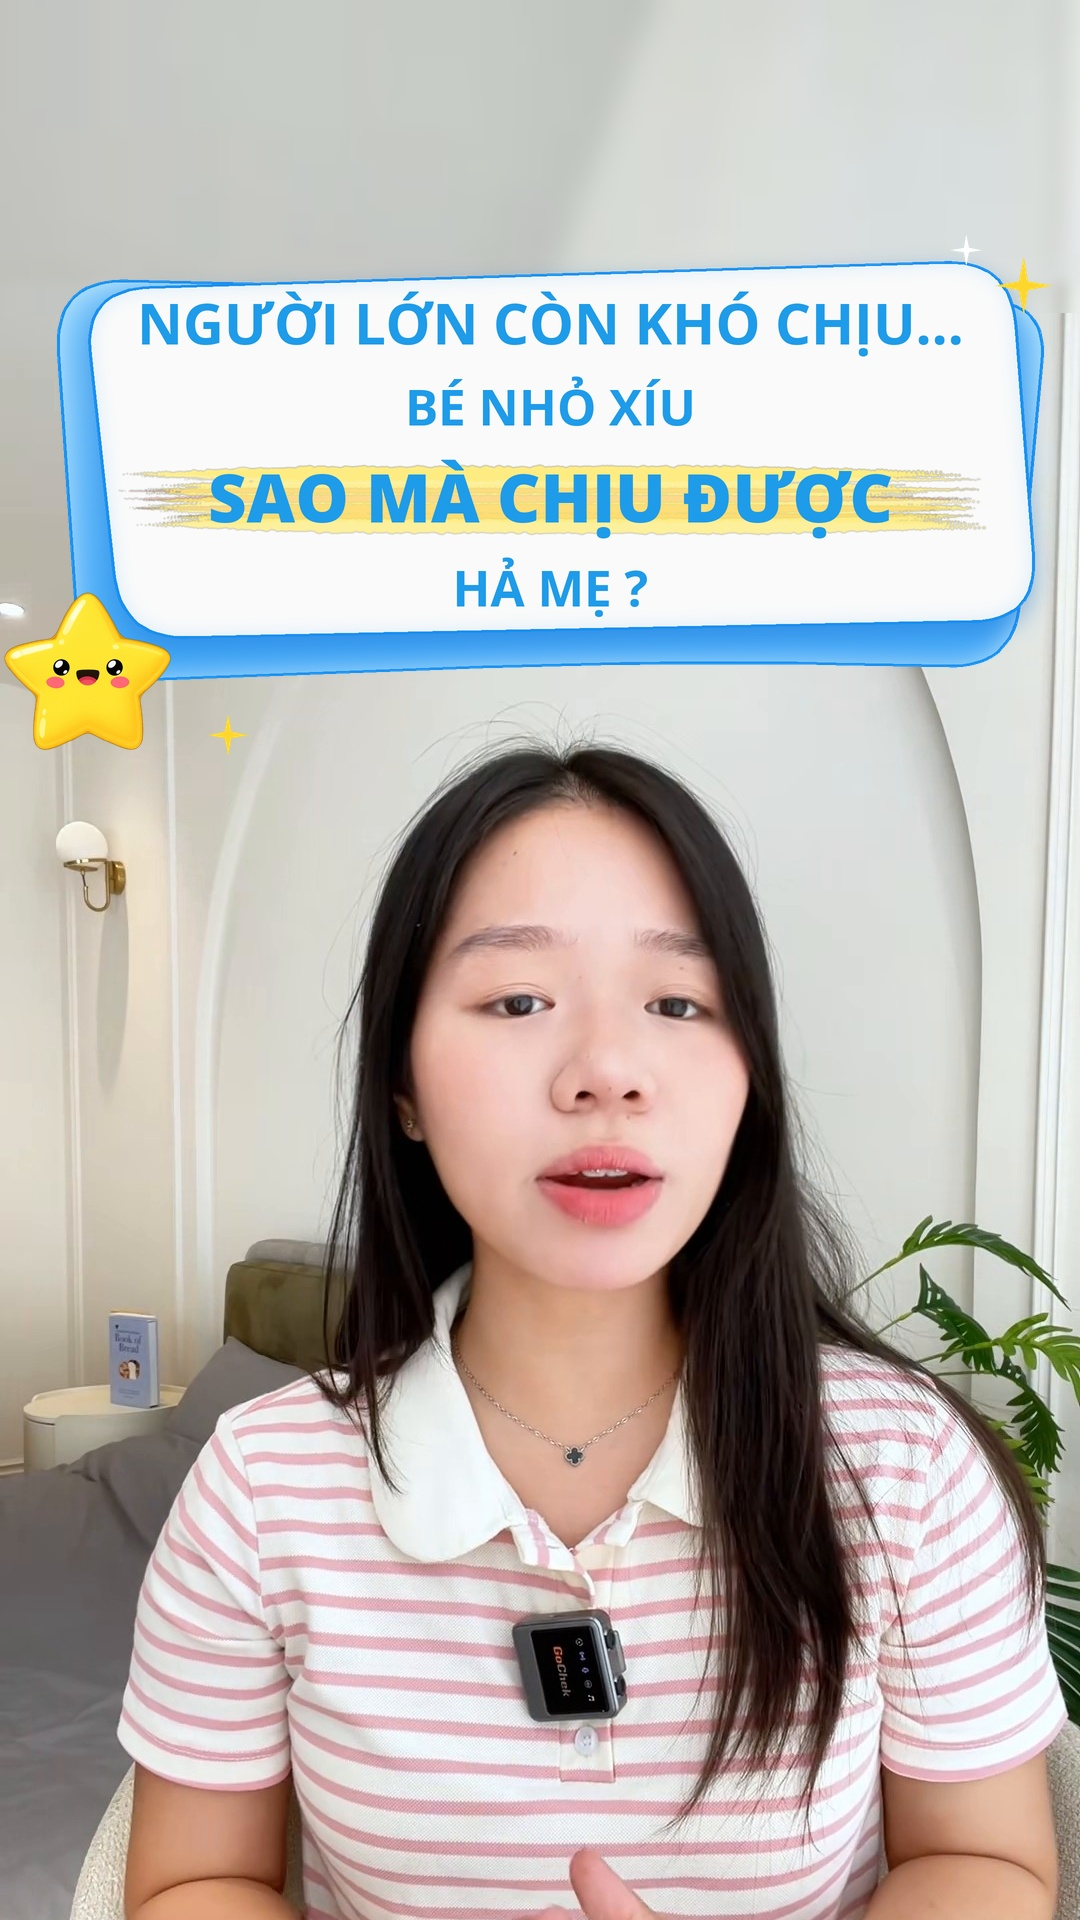
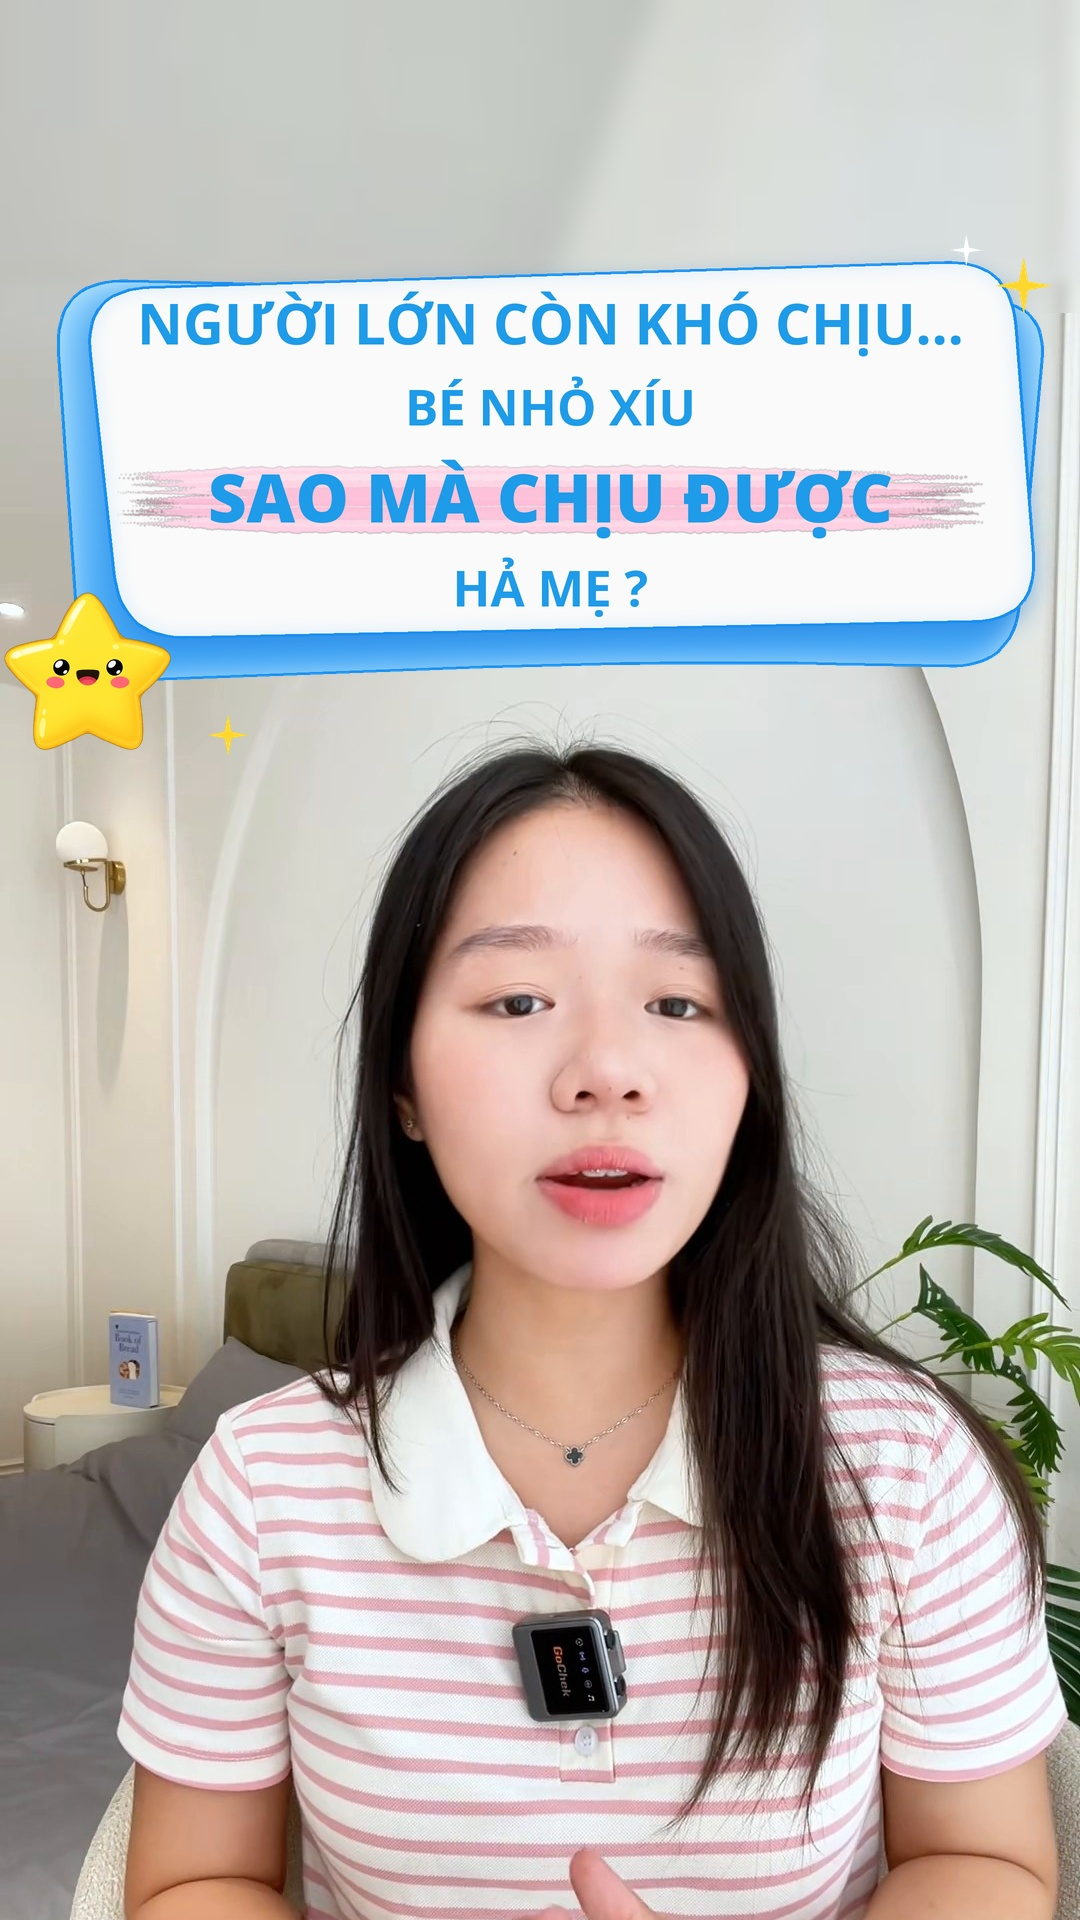
Add [vethong] pink highlighter; use it on the Người lớn cover
Claude-Session: https://claude.ai/code/session_01Ug3WuR9fbtqxhsVyfjB7mN

Changed region(s): [[0.1222, 0.2188, 0.9167, 0.2812]]

diff --git a/.claude/skills/tao-anh-bia/scripts/tao_anh_bia.py b/.claude/skills/tao-anh-bia/scripts/tao_anh_bia.py
@@ -52,7 +52,7 @@ VANG = (255, 214, 46)            # #FFD62E
 VANG_VIEN = (242, 165, 22)
 VIEN_TOI = (45, 45, 45)
 
-KIEU = {"to", "hong", "the", "vang", "xanh", "nen", "so", "gach"}
+KIEU = {"to", "hong", "the", "vang", "vethong", "xanh", "nen", "so", "gach"}
 KIEU_TU_DONG = ["hong", "the", "vang", "xanh"]
 
 # Hình khung theo ảnh mẫu (toạ độ trên khung 2000x1000).
@@ -482,7 +482,7 @@ class Dong:
 
     @property
     def dam(self):
-        return self.kieu in ("to", "hong", "the", "nen", "vang", "xanh", "so")
+        return self.kieu in ("to", "hong", "the", "nen", "vang", "vethong", "xanh", "so")
 
     def chieu_cao(self):
         if self.kieu in ("hong", "the", "nen"):
@@ -530,6 +530,7 @@ def be_rong_hinh(d, size):
         "the": tw + size * 1.75,
         "nen": tw + size * 1.2,
         "vang": tw,
+        "vethong": tw,
         "xanh": tw + size * 3.2,
     }.get(d.kieu, tw)
 
@@ -548,7 +549,7 @@ def chon_co_chu(dong, rong_toi_da, ty_le=1.0):
             base = 100
         elif d.kieu == "so":
             base = 84
-        elif d.kieu in ("hong", "the", "nen", "vang", "xanh"):
+        elif d.kieu in ("hong", "the", "nen", "vang", "vethong", "xanh"):
             base = 76
         elif i == 0:
             base = 70
@@ -613,6 +614,11 @@ def ve_dong(layer, d, cx, cy, seed):
         rong_dai = max(tw / 2 + size * 1.4, RONG_CHU * 0.42)
         ve_net_co(layer, cx - rong_dai, cx + rong_dai, cy + size * 0.12, size * 0.5, (250, 175, 160), seed + 1, 8)
         ve_net_co(layer, cx - rong_dai, cx + rong_dai, cy + size * 0.05, size * 0.95, (255, 232, 90), seed, 24)
+    elif d.kieu == "vethong":
+        # vệt bút dạ hồng (hợp nội dung về bọt vệ sinh màu hồng)
+        rong_dai = max(tw / 2 + size * 1.4, RONG_CHU * 0.42)
+        ve_net_co(layer, cx - rong_dai, cx + rong_dai, cy + size * 0.12, size * 0.5, (250, 150, 185), seed + 1, 8)
+        ve_net_co(layer, cx - rong_dai, cx + rong_dai, cy + size * 0.05, size * 0.95, (255, 196, 220), seed, 24)
     elif d.kieu == "xanh":
         for side in (-1, 1):
             inner = cx + side * (tw / 2 - size * 0.25)
